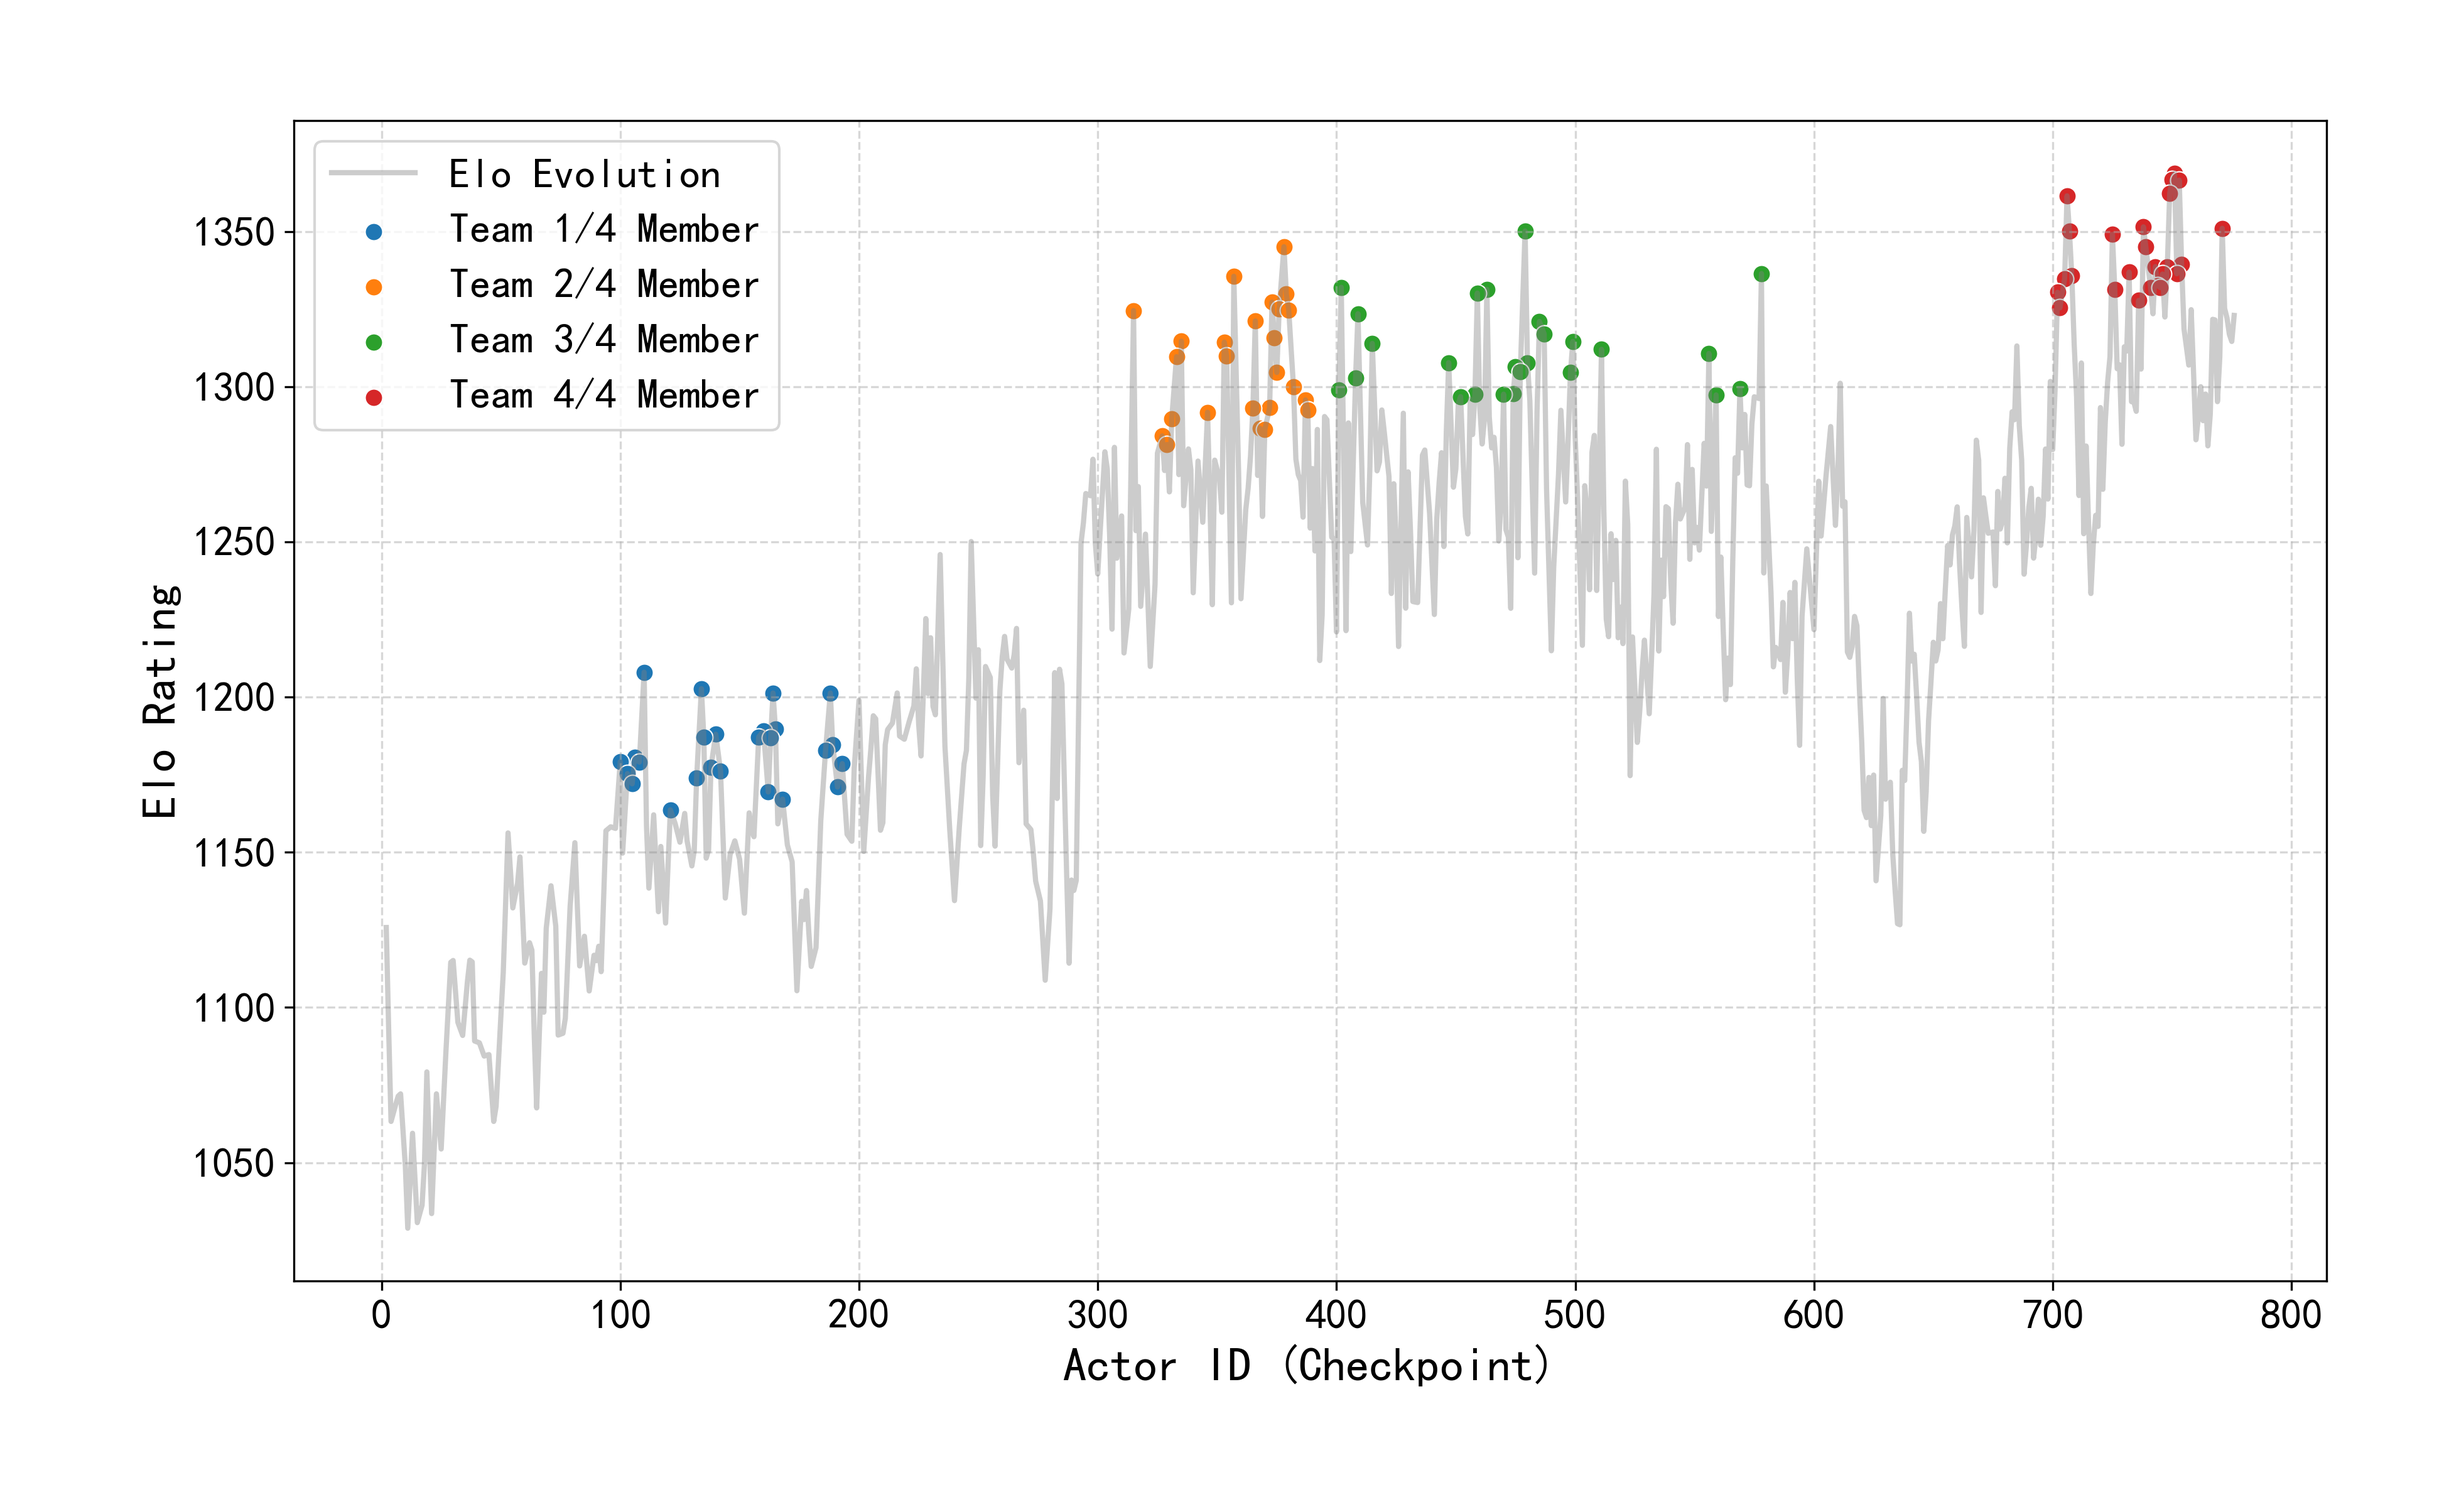
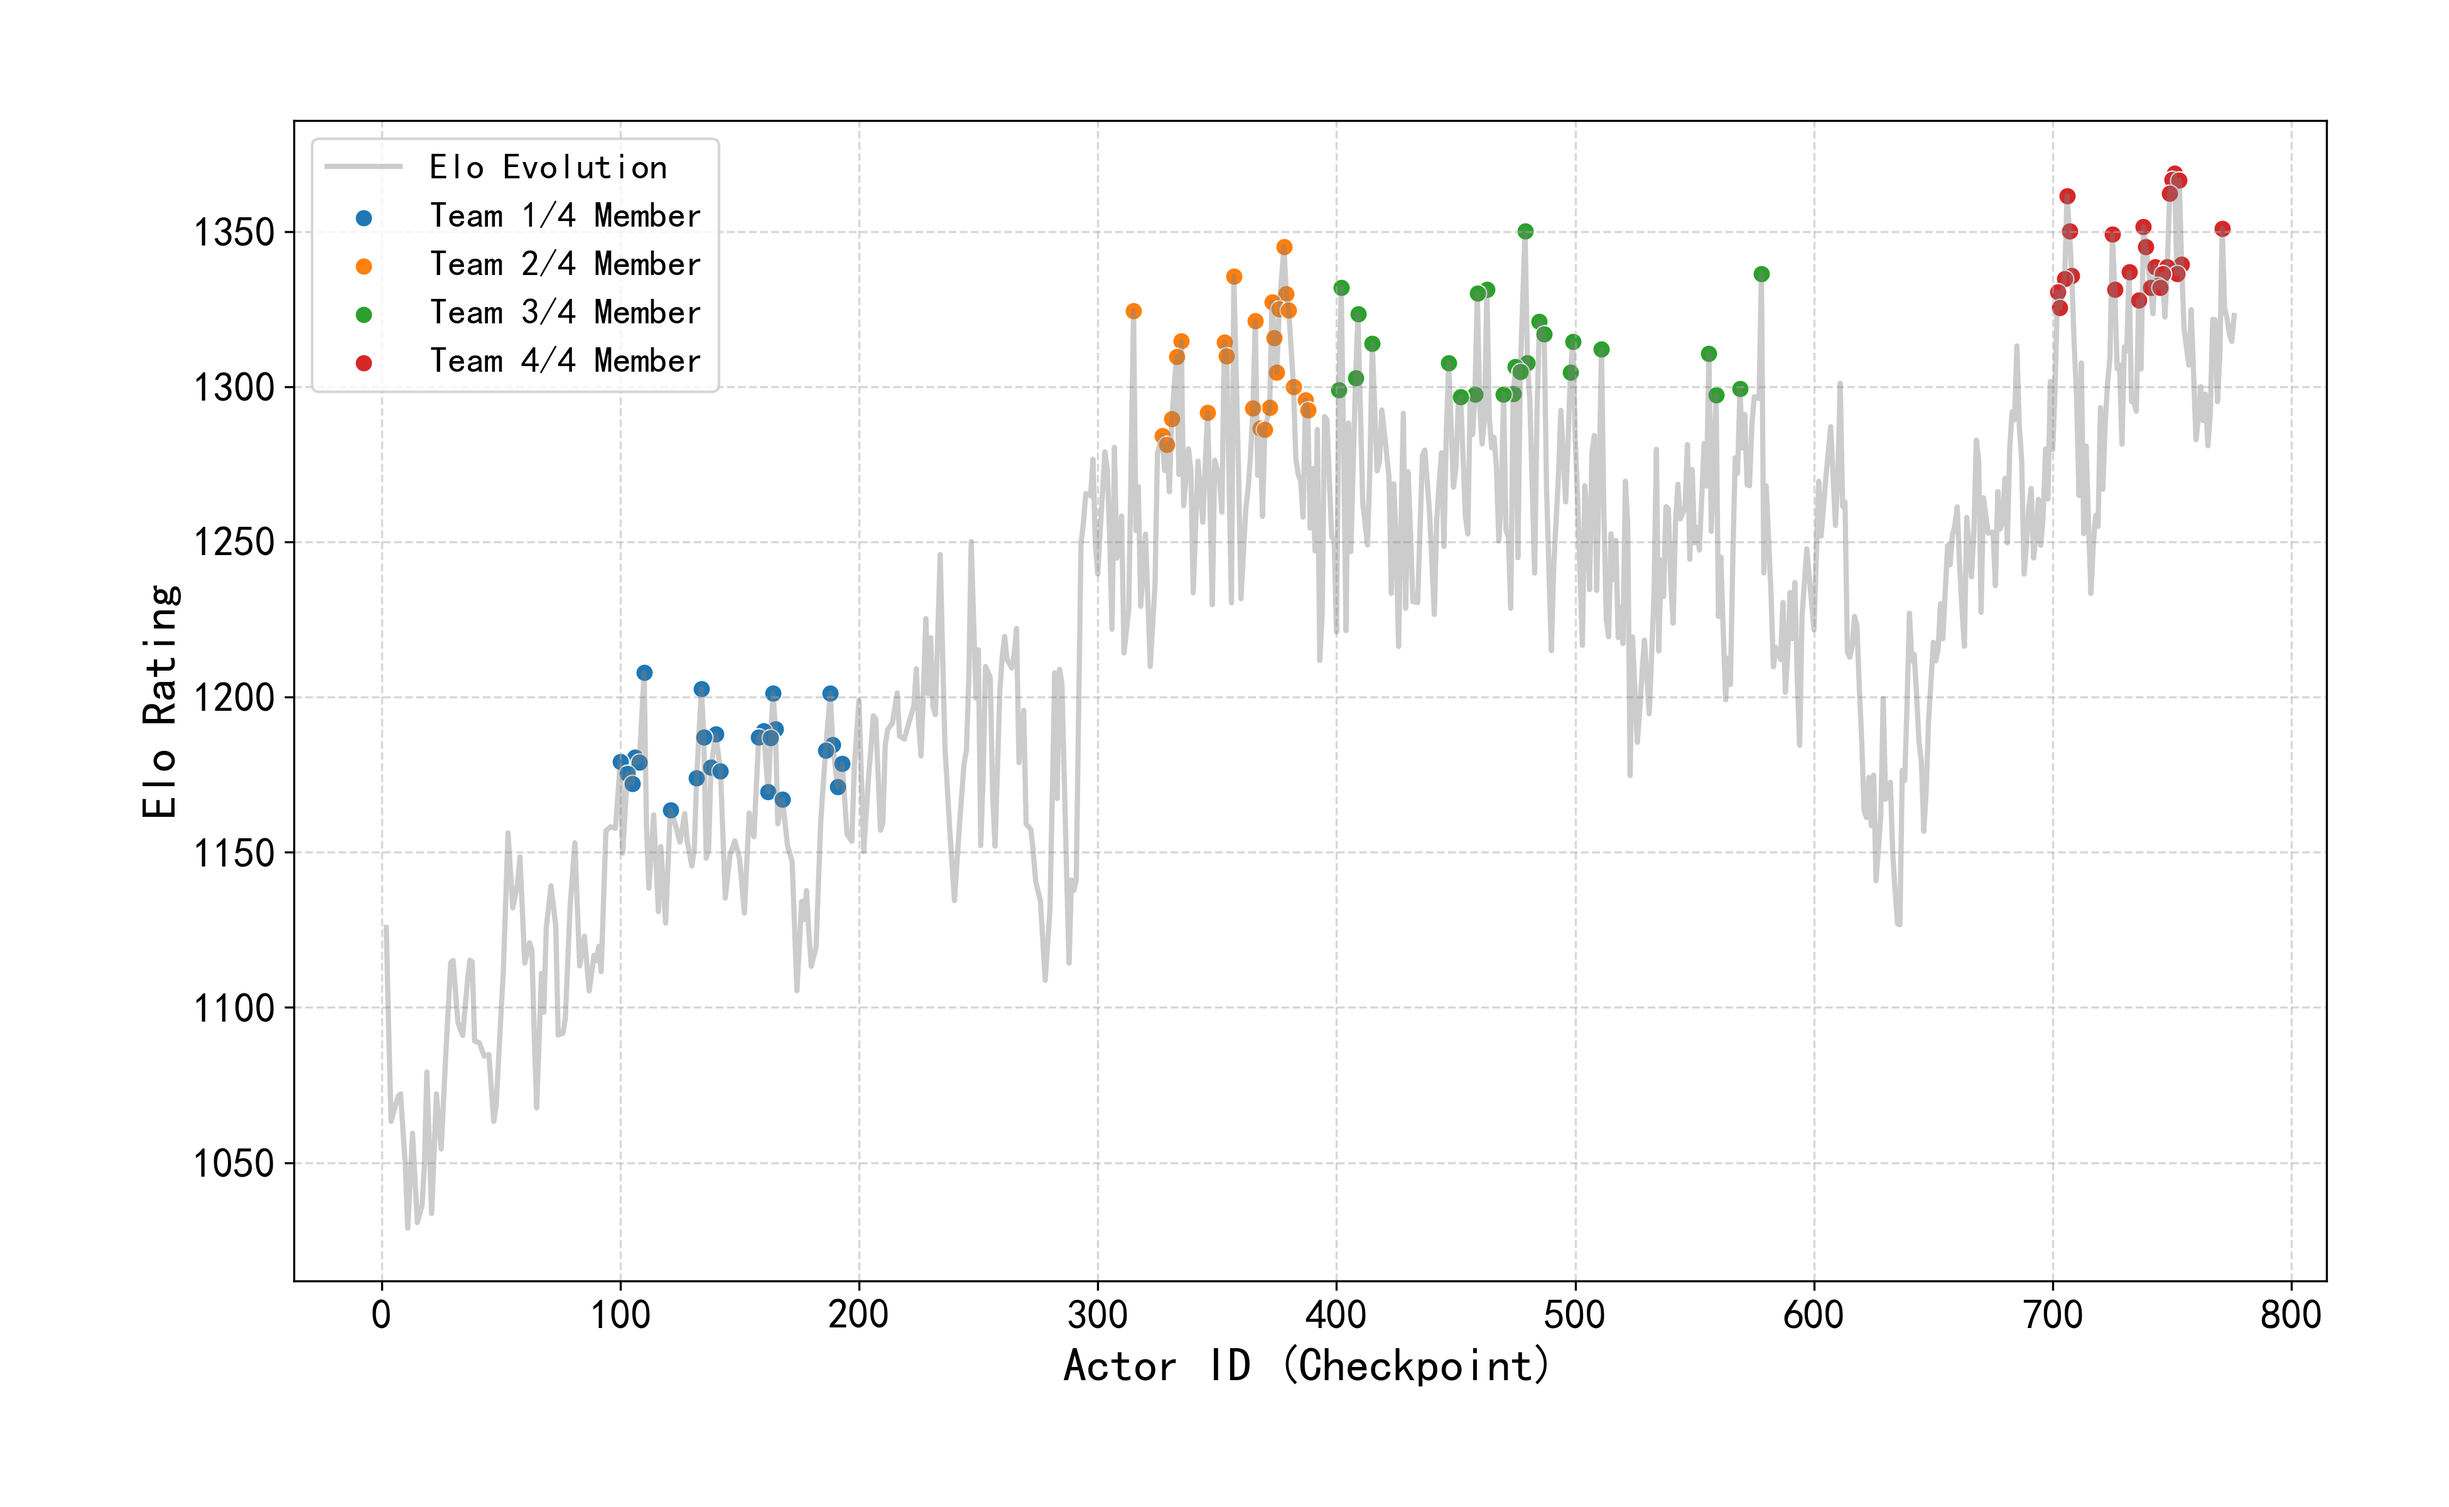
关闭防出界，否则0.5太多

Changed region(s): [[0.1241, 0.0938, 0.3103, 0.2812]]

diff --git a/结果展示/历史切片测试队伍绘制.py b/结果展示/历史切片测试队伍绘制.py
@@ -95,7 +95,7 @@ def plot_elo_sampling(log_dir, teams, team_labels, name):
     plt.ylabel("Elo Rating", fontsize=18)
     plt.xticks(fontsize=16)
     plt.yticks(fontsize=16)
-    plt.legend(fontsize=16, loc='upper left')
+    plt.legend(fontsize=14, loc='upper left')
     plt.grid(True, linestyle='--', alpha=0.5)
     
     # [修改] 移除标题，手动设置留白 (left, right, top, bottom)

diff --git a/结果展示/最终智能体博弈矩阵 并行 原目录.py b/结果展示/最终智能体博弈矩阵 并行 原目录.py
@@ -118,7 +118,7 @@ def run_battle(env, blue_wrapper, red_wrapper, device):
     """仿真逻辑 (保持与文件 1 一致)"""
     env.reset(red_init_ammo=6, blue_init_ammo=6, ego_side='b')
     env.shielded = 1 # 测试时开启防撞地
-    env.no_out = 1 # 测试时防止出界
+    env.no_out = 0 # 测试时防止出界
 
     done = False
     r_label, b_label = 0, 0
